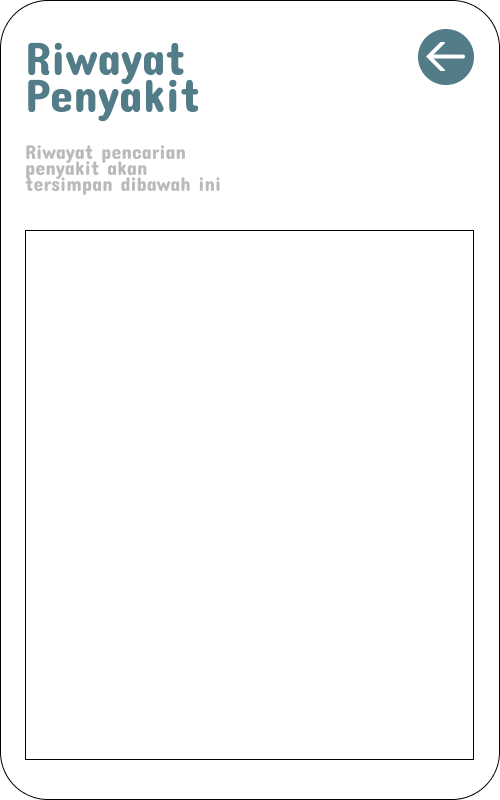
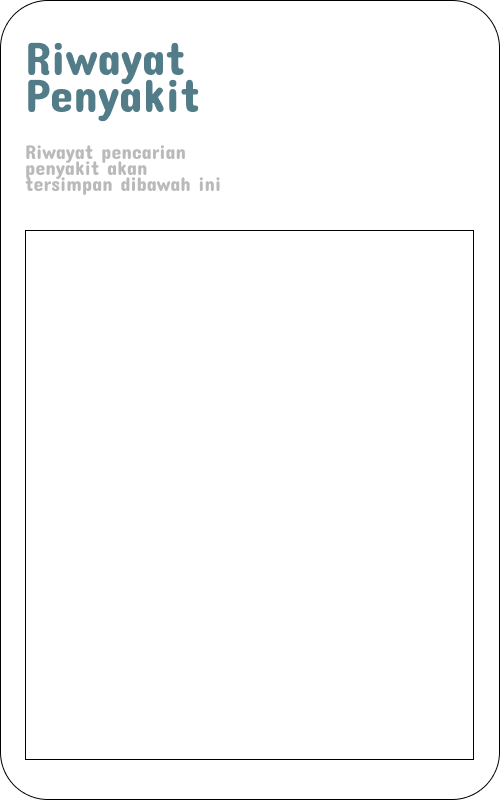
Make Button Back

Changed region(s): [[0.84, 0.0312, 0.96, 0.125]]

diff --git a/sistem-kessehatan-digital/src/main/java/com/neverlands/siskesdig/programs/Graphic/DaftarPenyakitForm.java b/sistem-kessehatan-digital/src/main/java/com/neverlands/siskesdig/programs/Graphic/DaftarPenyakitForm.java
@@ -7,9 +7,12 @@ import java.awt.Color;
 import java.awt.event.MouseAdapter;
 import java.awt.event.MouseEvent;
 import java.sql.SQLException;
+import java.util.Timer;
+import java.util.TimerTask;
+
+import javax.swing.ImageIcon;
 
 import com.neverlands.siskesdig.programs.DaftarPenyakit;
-import javax.swing.ImageIcon;
 
 /**
  *
@@ -82,6 +85,8 @@ public class DaftarPenyakitForm extends javax.swing.JFrame {
         jTextArea2.setColumns(20);
         jTextArea2.setFont(new java.awt.Font("Bahnschrift", 1, 18)); // NOI18N
         jTextArea2.setForeground(new java.awt.Color(0, 0, 0));
+        jTextArea2.setLineWrap(true);
+        jTextArea2.setWrapStyleWord(true);
         jTextArea2.setRows(5);
         jTextArea2.setBorder(null);
         jScrollPane2.setViewportView(jTextArea2);
@@ -92,6 +97,8 @@ public class DaftarPenyakitForm extends javax.swing.JFrame {
         jTextArea1.setColumns(20);
         jTextArea1.setFont(new java.awt.Font("Bahnschrift", 1, 18)); // NOI18N
         jTextArea1.setForeground(new java.awt.Color(0, 0, 0));
+        jTextArea1.setLineWrap(true);
+        jTextArea1.setWrapStyleWord(true);
         jTextArea1.setRows(5);
         jTextArea1.setBorder(null);
         jScrollPane1.setViewportView(jTextArea1);
@@ -99,7 +106,7 @@ public class DaftarPenyakitForm extends javax.swing.JFrame {
         getContentPane().add(jScrollPane1, new org.netbeans.lib.awtextra.AbsoluteConstraints(40, 440, 420, 300));
 
         Nama_Penyakit.setBackground(new java.awt.Color(255, 255, 255));
-        Nama_Penyakit.setFont(new java.awt.Font("Concert One", 0, 35)); // NOI18N
+        Nama_Penyakit.setFont(new java.awt.Font("Bahnschrift", 1, 20)); // NOI18N
         Nama_Penyakit.setForeground(new java.awt.Color(0, 0, 0));
         Nama_Penyakit.setBorder(null);
         Nama_Penyakit.addActionListener(new java.awt.event.ActionListener() {
@@ -112,7 +119,18 @@ public class DaftarPenyakitForm extends javax.swing.JFrame {
         Back.setIcon(new javax.swing.ImageIcon(getClass().getResource("/com/neverlands/siskesdig/bin/Back.png"))); // NOI18N
         Back.addMouseListener(new java.awt.event.MouseAdapter() {
             public void mouseClicked(java.awt.event.MouseEvent evt) {
+                Back.setIcon(new javax.swing.ImageIcon(getClass().getResource("/com/neverlands/siskesdig/bin/BackBesarC.png")));
+                
+                Timer timer = new Timer();
+
+                timer.schedule(new TimerTask() {
+
+                @Override
+                public void run() {
+                Back.setIcon(new javax.swing.ImageIcon(getClass().getResource("/com/neverlands/siskesdig/bin/BackBesar.png")));
                 BackMouseClicked(evt);
+                }
+                }, 200);
             }
             public void mouseEntered(java.awt.event.MouseEvent evt) {
                 BackMouseEntered(evt);
@@ -129,7 +147,19 @@ public class DaftarPenyakitForm extends javax.swing.JFrame {
         Search.setIcon(new javax.swing.ImageIcon(getClass().getResource("/com/neverlands/siskesdig/bin/Search.png"))); // NOI18N
         Search.addMouseListener(new java.awt.event.MouseAdapter() {
             public void mouseClicked(java.awt.event.MouseEvent evt) {
+                
+                Search.setIcon(new javax.swing.ImageIcon(getClass().getResource("/com/neverlands/siskesdig/bin/SearchBesarC.png")));
+                
+                Timer timer = new Timer();
+
+                timer.schedule(new TimerTask() {
+
+                @Override
+                public void run() {
+                Search.setIcon(new javax.swing.ImageIcon(getClass().getResource("/com/neverlands/siskesdig/bin/SearchBesar.png")));
                 SearchMouseClicked(evt);
+                }
+                }, 200);
             }
             public void mouseEntered(java.awt.event.MouseEvent evt) {
                 SearchMouseEntered(evt);
@@ -144,6 +174,7 @@ public class DaftarPenyakitForm extends javax.swing.JFrame {
         getContentPane().add(jLabel1, new org.netbeans.lib.awtextra.AbsoluteConstraints(0, 0, -1, -1));
 
         pack();
+        setLocationRelativeTo(null);
     }// </editor-fold>//GEN-END:initComponents
 
     private void Nama_PenyakitActionPerformed(java.awt.event.ActionEvent evt) {//GEN-FIRST:event_Nama_PenyakitActionPerformed
@@ -161,15 +192,25 @@ public class DaftarPenyakitForm extends javax.swing.JFrame {
 
     private void SearchMouseClicked(java.awt.event.MouseEvent evt) {//GEN-FIRST:event_SearchMouseClicked
         // TODO add your handling code here:
-        String nama_penyakit = Nama_Penyakit.getText();
+        Timer timer = new Timer();
 
-        DaftarPenyakit daftarPenyakit = new DaftarPenyakit("jdbc:mysql://51.161.134.32/sistem_kesehatan", "database_pbo", "pbo331");
-        try {
-            daftarPenyakit.showInfo(nama_penyakit);
-        } catch (SQLException e) {
-            // TODO Auto-generated catch block
-            e.printStackTrace();
-        }
+                timer.schedule(new TimerTask() {
+
+                @Override
+                public void run() {
+                String nama_penyakit = Nama_Penyakit.getText();
+
+                DaftarPenyakit daftarPenyakit = new DaftarPenyakit("jdbc:mysql://51.161.134.32/sistem_kesehatan", "database_pbo", "pbo331");
+                try {
+                    daftarPenyakit.showInfo(nama_penyakit);
+                } catch (SQLException e) {
+                // TODO Auto-generated catch block
+                e.printStackTrace();
+                        }
+                    }
+                }, 200);
+
+        
 
     }//GEN-LAST:event_SearchMouseClicked
 
@@ -239,12 +280,12 @@ public class DaftarPenyakitForm extends javax.swing.JFrame {
     // Variables declaration - do not modify//GEN-BEGIN:variables
     private javax.swing.JLabel Back;
     private javax.swing.JLabel Gif;
-    private static javax.swing.JTextField Nama_Penyakit;
+    public static javax.swing.JTextField Nama_Penyakit;
     private javax.swing.JLabel Search;
     private javax.swing.JLabel jLabel1;
     private javax.swing.JScrollPane jScrollPane1;
     private javax.swing.JScrollPane jScrollPane2;
-    private javax.swing.JTextArea jTextArea1;
-    private javax.swing.JTextArea jTextArea2;
+    public static javax.swing.JTextArea jTextArea1;
+    public static javax.swing.JTextArea jTextArea2;
     // End of variables declaration//GEN-END:variables
 }

diff --git a/sistem-kessehatan-digital/src/main/java/com/neverlands/siskesdig/programs/Graphic/HubungiDokterForm.java b/sistem-kessehatan-digital/src/main/java/com/neverlands/siskesdig/programs/Graphic/HubungiDokterForm.java
@@ -6,6 +6,9 @@ package com.neverlands.siskesdig.programs.Graphic;
 import java.awt.Color;
 import java.awt.event.MouseAdapter;
 import java.awt.event.MouseEvent;
+import java.util.Timer;
+import java.util.TimerTask;
+
 import javax.swing.ImageIcon;
 
 /**
@@ -70,7 +73,18 @@ public class HubungiDokterForm extends javax.swing.JFrame {
         Back.setIcon(new javax.swing.ImageIcon(getClass().getResource("/com/neverlands/siskesdig/bin/Back.png"))); // NOI18N
         Back.addMouseListener(new java.awt.event.MouseAdapter() {
             public void mouseClicked(java.awt.event.MouseEvent evt) {
+                Back.setIcon(new javax.swing.ImageIcon(getClass().getResource("/com/neverlands/siskesdig/bin/BackBesarC.png")));
+                
+                Timer timer = new Timer();
+
+                timer.schedule(new TimerTask() {
+
+                @Override
+                public void run() {
+                Back.setIcon(new javax.swing.ImageIcon(getClass().getResource("/com/neverlands/siskesdig/bin/BackBesar.png")));
                 BackMouseClicked(evt);
+                }
+                }, 200);
             }
             public void mouseEntered(java.awt.event.MouseEvent evt) {
                 BackMouseEntered(evt);
@@ -120,7 +134,7 @@ public class HubungiDokterForm extends javax.swing.JFrame {
         /* Set the Nimbus look and feel */
         //<editor-fold defaultstate="collapsed" desc=" Look and feel setting code (optional) ">
         /* If Nimbus (introduced in Java SE 6) is not available, stay with the default look and feel.
-         * For details see http://download.oracle.com/javase/tutorial/uiswing/lookandfeel/plaf.html 
+         * For details see http://download.oracle.com/javase/tutorial/uiswing/lookandfeel/plaf.html
          */
         try {
             for (javax.swing.UIManager.LookAndFeelInfo info : javax.swing.UIManager.getInstalledLookAndFeels()) {

diff --git a/sistem-kessehatan-digital/src/main/java/com/neverlands/siskesdig/programs/Graphic/RiwayatForm.java b/sistem-kessehatan-digital/src/main/java/com/neverlands/siskesdig/programs/Graphic/RiwayatForm.java
@@ -12,6 +12,8 @@ import java.sql.DriverManager;
 import java.sql.PreparedStatement;
 import java.sql.ResultSet;
 import java.sql.SQLException;
+import java.util.Timer;
+import java.util.TimerTask;
 
 import javax.swing.ImageIcon;
 import javax.swing.table.DefaultTableModel;
@@ -122,7 +124,18 @@ public class RiwayatForm extends javax.swing.JFrame {
         Back.setText("jLabel3");
         Back.addMouseListener(new java.awt.event.MouseAdapter() {
             public void mouseClicked(java.awt.event.MouseEvent evt) {
+                Back.setIcon(new javax.swing.ImageIcon(getClass().getResource("/com/neverlands/siskesdig/bin/BackBesarC.png")));
+                
+                Timer timer = new Timer();
+
+                timer.schedule(new TimerTask() {
+
+                @Override
+                public void run() {
+                Back.setIcon(new javax.swing.ImageIcon(getClass().getResource("/com/neverlands/siskesdig/bin/BackBesar.png")));
                 BackMouseClicked(evt);
+                }
+                }, 200);
             }
             public void mouseEntered(java.awt.event.MouseEvent evt) {
                 BackMouseEntered(evt);
